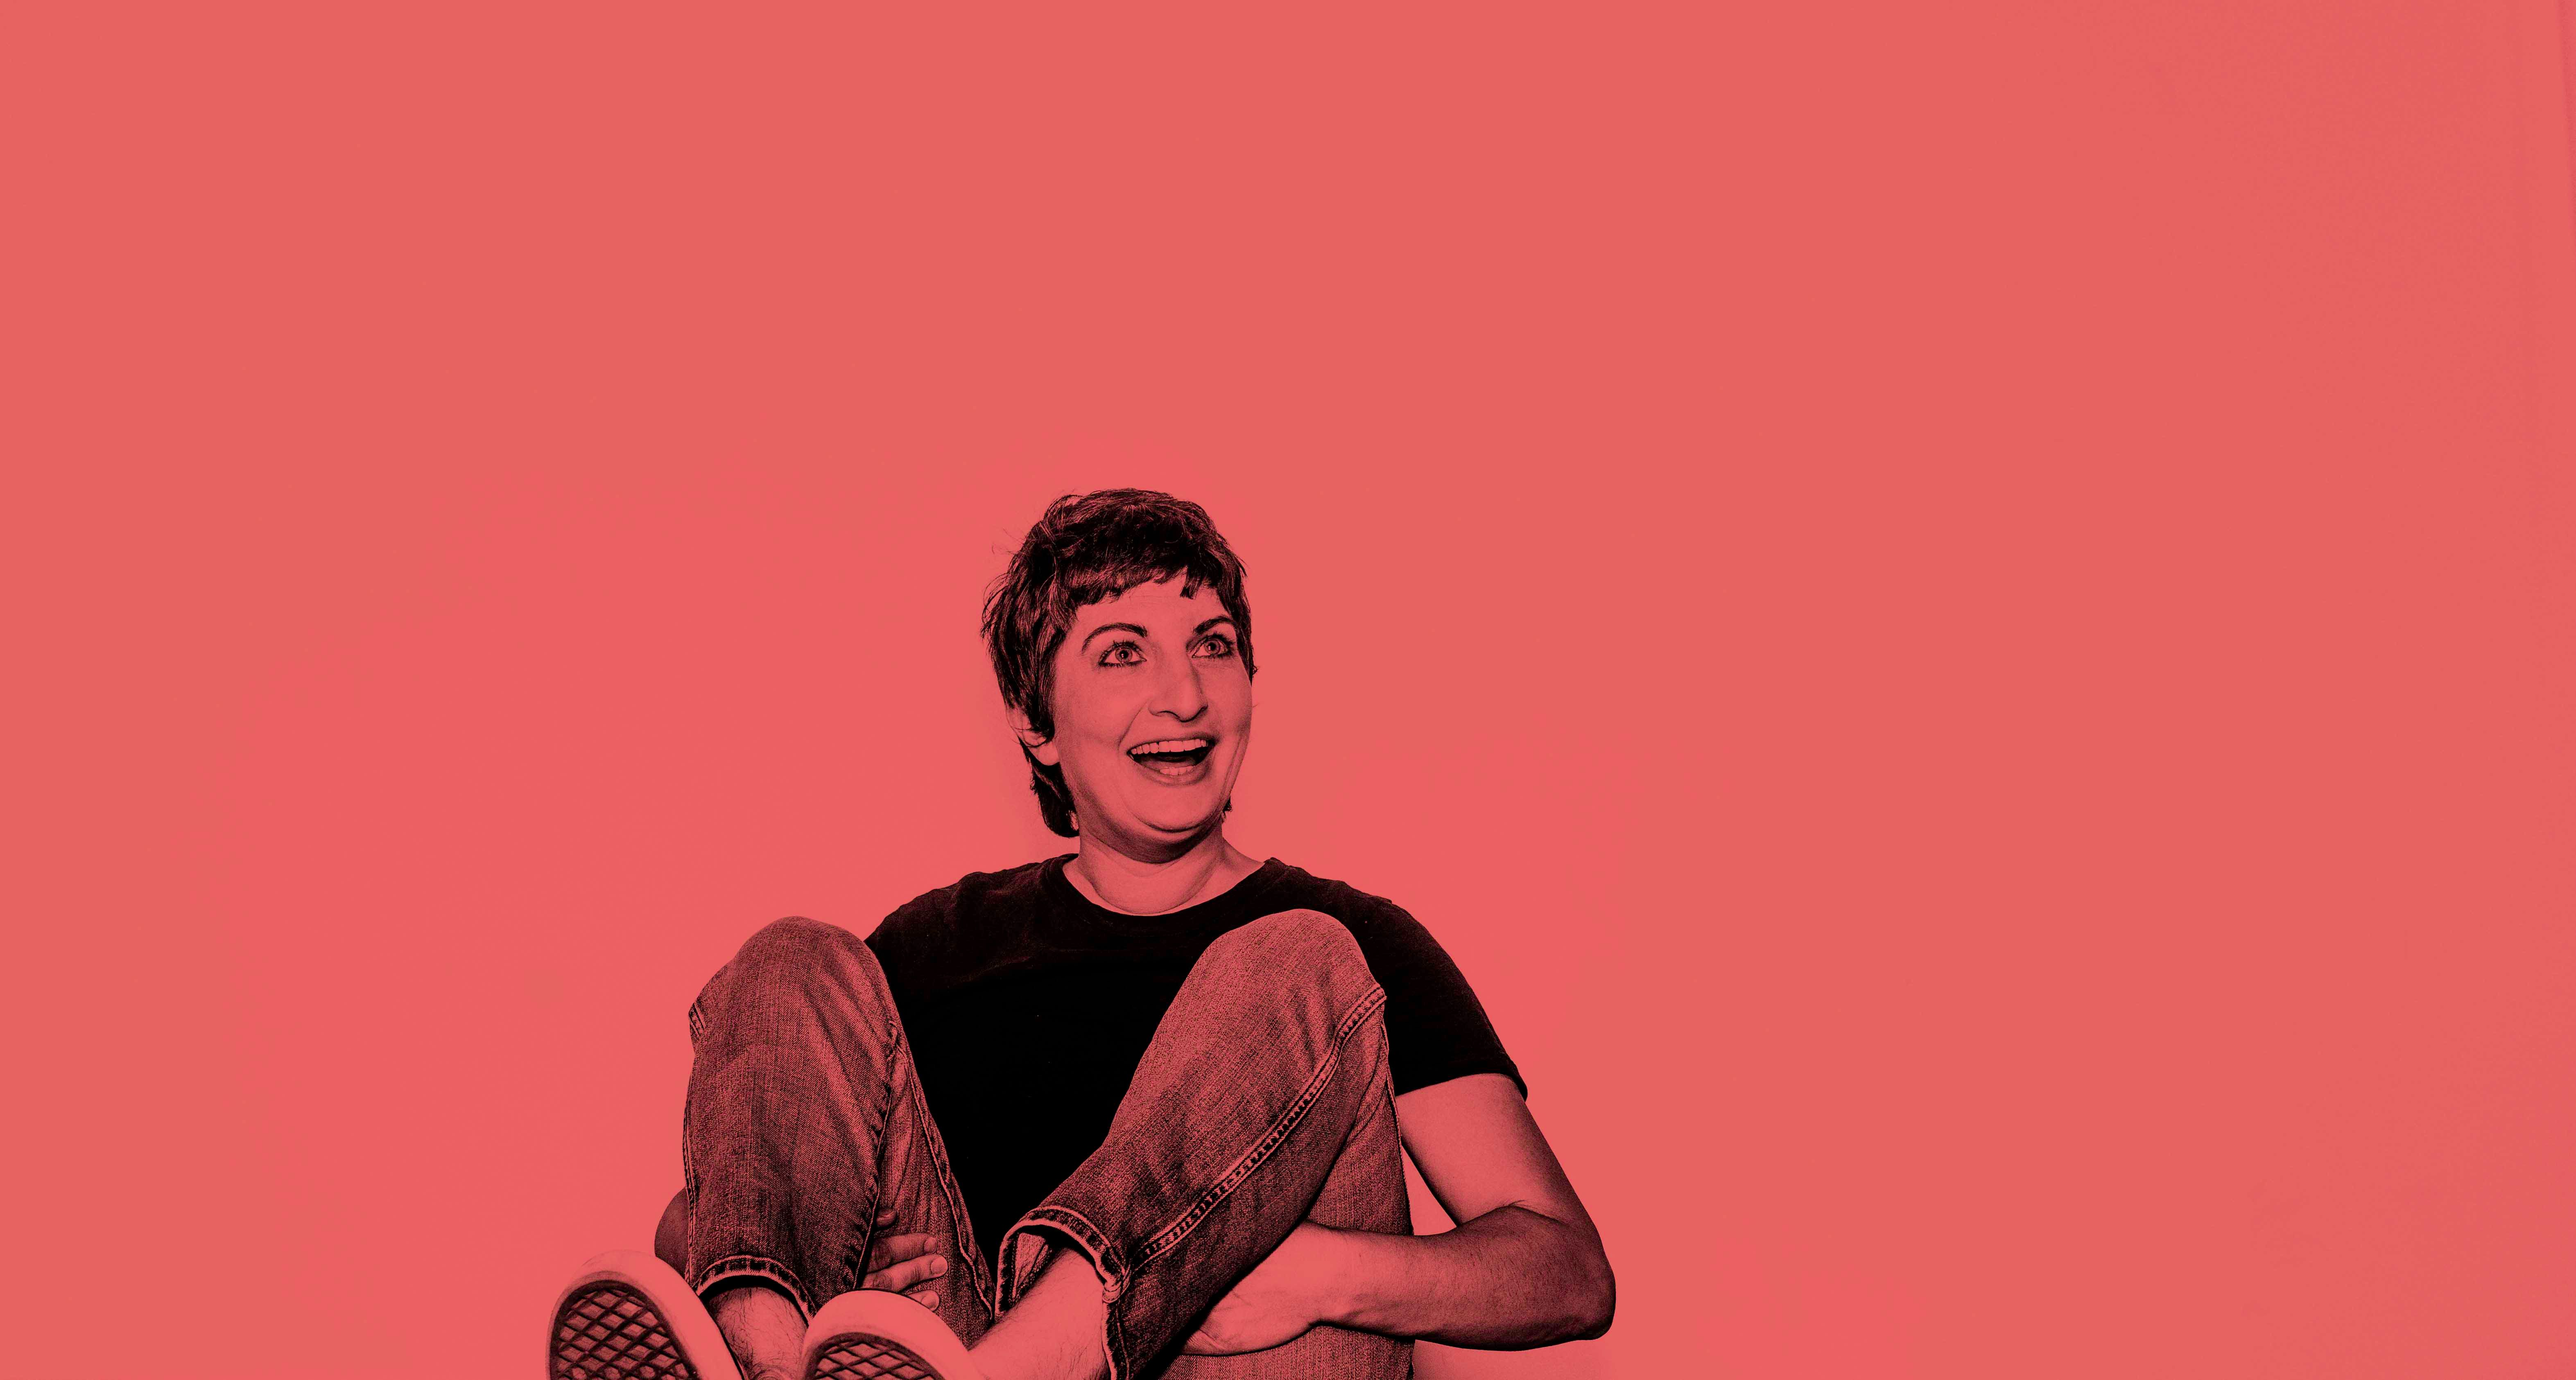
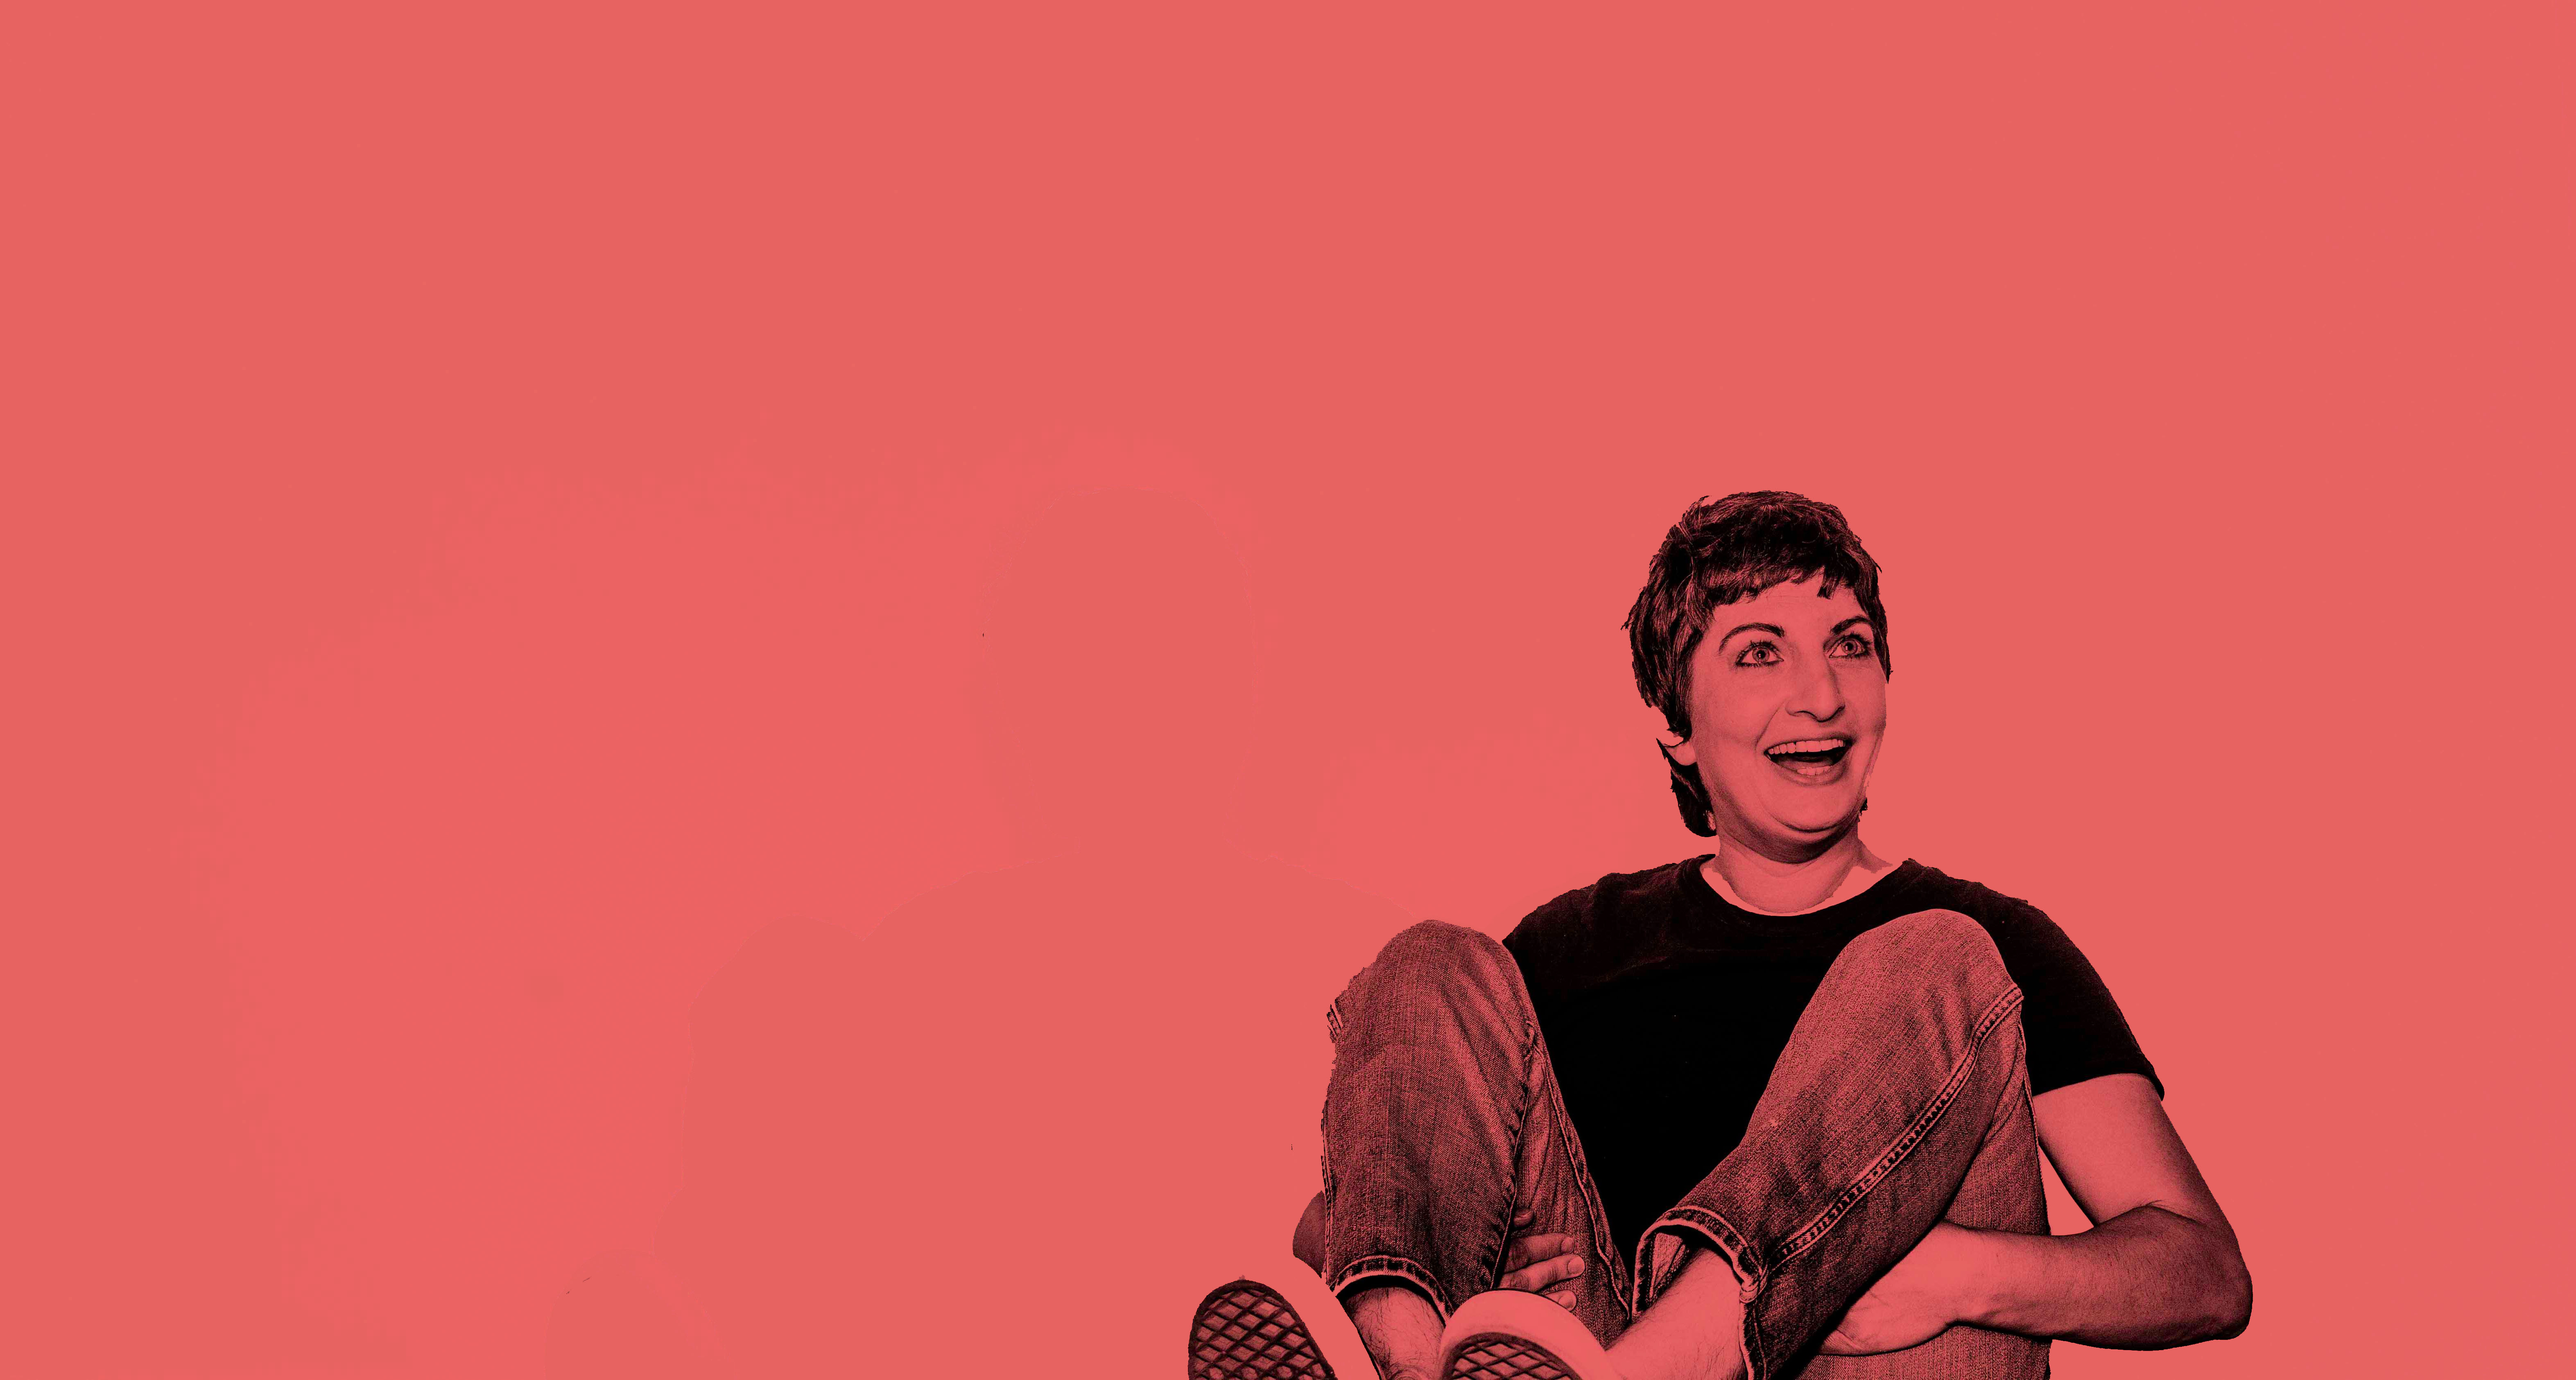
Add files via upload

Changed region(s): [[0.1869, 0.3426, 0.8724, 1.0]]

diff --git a/style.css b/style.css
@@ -18,7 +18,7 @@ p {
 /* Home page overlay */
 .heroOverlay {
     /* background:#da2c43; */
-    background-image: url(./bgphotoblue.jpg) ;
+    background-image: url(./redphotobg.jpg) ;
     background-size: cover;
     background-position: bottom right ; 
     background-repeat: no-repeat ;
@@ -33,7 +33,7 @@ p {
     width: 90%;
     max-width: 1200px;
     margin: auto;
-    margin-top: 60px;
+    margin-top: 60px; 
     padding: 80px 0px; 
     text-align: center;
 }
@@ -59,9 +59,8 @@ p {
 .heroButton {
     padding: 10px 48px;
     border-radius: 100px;
-    background: rgba(47, 74, 227, 0.988);
-    color: rgb(230, 230, 230) ;
-    color: inherit ;
+    background: yellow ; 
+    color: rgba(227, 71, 47, 0.988) ;
     border: 1px solid white ; 
     font-size: 18px;
     font-weight: 600;
@@ -74,9 +73,9 @@ p {
 }
 
 .heroButton:hover {
-    background: none;
+    background: rgba(227, 71, 47, 0.988) ;
     border: 1px solid rgb(230, 230, 230);
-    color:rgba(227, 71, 47, 0.988)
+    color:yellow ; 
    }
    
 .heroSection .socialIcons {
@@ -131,9 +130,10 @@ p {
 
 /* Footer styles applies to all pages */
 footer {
-    padding: 30px 20px;
-    background-color: rgba(234, 35, 35, 1.0) ;
-    color: white ; 
+    padding: 10px ;
+    margin: auto; 
+    background-color: orange ; 
+    
 
 }
 
@@ -158,7 +158,7 @@ footer {
 /* Small Laptop / Tablet Screens */
 @media screen and (max-width: 1024px) {
     .heroOverlay {
-        background-image: url(./bgphotoblue.jpg);
+        background-image: url(./redphotobg.jpg);
         background-size: cover;
         background-position: center;
     }
@@ -175,7 +175,7 @@ footer {
 /* Tablet Screens */
 @media screen and (max-width: 768px) {
     .heroOverlay {
-        background-image: url(./bgphotoblue.jpg);
+        background-image: url(./redphotobg.jpg);
         background-size: cover;
         background-position: center;
     
@@ -192,7 +192,7 @@ footer {
 /* Mobile Screens */
 @media screen and (max-width: 500px) {
     .heroOverlay {
-        background-image: url(./bgphotoblue.jpg);
+        background-image: url(./redphotobg.jpg);
         background-size: cover;
         background-position: 70% 20%;
         padding: 10px;

diff --git a/bio.html b/bio.html
@@ -37,7 +37,7 @@
 
 
         <section class="bioDetails"> 
-            <p>Claudia Cogan is a comic as affable as she is matter-of-fact. And her approach is working: she recently hopped a ride on Night Train with Wyatt Cenac on STARZ, made it to semi-finalist on Season 7 of Last Comic Standing and won the first ever Time Out New York Joke of the Year. She was featured in New York Magazine's Ten People Funny People Find Funny list. She has been seen at Bridgetown Comedy Festival, San Francisco SketchFest, the Eugene Mirman Comedy Festival and clubs all over. Her work has been featured on Lifetime TV, Rooftop Comedy and Youtube's Official Comedy Channel..</p>
+            <p style="font-size: 16px"> Claudia Cogan is a comic as affable as she is matter-of-fact. And her approach is working: she recently hopped a ride on Night Train with Wyatt Cenac on STARZ, made it to semi-finalist on Season 7 of Last Comic Standing and won the first ever Time Out New York Joke of the Year. She was featured in New York Magazine's Ten People Funny People Find Funny list. She has been seen at Bridgetown Comedy Festival, San Francisco SketchFest, the Eugene Mirman Comedy Festival and clubs all over. Her work has been featured on Lifetime TV, Rooftop Comedy and Youtube's Official Comedy Channel..</p>
      
         </section>
 
@@ -65,7 +65,7 @@
         </section>
         
         <section class="socialIcons"> 
-            <p> &copy; 2023 Maha Ahmed. All rights reserved. </p>
+            <p> &copy; 2023 Claudia Cogan. All rights reserved. </p>
         </section>
 
     </footer>

diff --git a/nav.css b/nav.css
@@ -5,32 +5,35 @@
 }
 
 .navbar {
-    width: 90% ;
-    max-width: 1200px;
+    width: 100% ;
+    top: 0 ; 
+    left: 0 ; 
     max-height: 60px; 
     overflow: hidden;
     display: flex; 
     flex-direction: row;
     justify-content: space-between;
     align-items: center; 
-    padding: 10px 30px;
-    background-color: rgb(255, 255, 255) ;
-    box-shadow: 0px 0px 10px rgba(0, 0, 0, 0.7); 
-    border-radius: 20px ; 
-    margin: auto ;
-    margin-top: 10px ;
+    padding: 20px 30px;
+    box-shadow: 0px 0px 10px rgba(0, 0, 0, 0.7);  
+    margin: auto ; 
+    position: fixed; 
+    background-color:yellow; 
+    color: #da2c43; 
+
+
 }
 
 .navbarlogo {
     display: flex; 
     word-wrap: normal;
     font-size: 24px; 
-    font-weight: 700;
+    font-weight: 900;
     text-decoration: none;
     padding: 0px ;
     margin: 0px ;
     font-family: 'Rock Salt', cursive; 
-    color: rgba(234, 35, 35, 1.0)
+
 
 }
 
@@ -55,14 +58,14 @@
 
 .nav-menu li {
     font-weight: 200; 
-    font-size: 15px;
-    transition: 0.3s ease-in-out ;
+    font-size: 20px;
+    transition: 0.3s ease-in-out ; 
    
 }
 
 .nav-menu li:hover {
     text-decoration: none;
-    color: rgba(234, 35, 35, 1.0)
+    color: black; 
 }
 
 
@@ -132,7 +135,7 @@
 
     #nav-menu li {
         padding: 10px 0px ; 
-        
+
     
     }
 

diff --git a/bio.css b/bio.css
@@ -3,6 +3,7 @@
   margin: 0;
   box-sizing: border-box;
   font-family: 'Martel Sans', sans-serif;
+
   
 }
 
@@ -11,9 +12,9 @@
 .container {
   background-image: url(./bio-image2.jpg);
   background-size: cover ;
-  background-repeat: no-repeat;
-  background-position: right bottom; 
-  display: flex;
+  background-repeat: no-repeat ;
+  background-position: right bottom ; 
+  display: flex ; 
   margin-top: 13px ;
 
 }
@@ -23,18 +24,19 @@
     flex-direction: column ;
     align-items: right ;
     justify-content: right ;
-    margin: 130px auto ;
-    margin-right: 200px; 
-    padding: 5% 8%;
+    margin: 95px auto ;
+    margin-right: 130px; 
+    padding: 4% 4% ;
     width: 90% ;
     max-width: 500px ;
-    font-weight: 900 ;
-    box-shadow: 10px 10px 20px rgba(0, 0, 0, 0.1);
-    border-color: rgb(217, 235, 20) ;  
-    border-radius: 18% ; 
-  
+    font-weight: 700 ;
+    text-align: center;
 
-}
+  }
+
+  footer {
+    background-color: none ; 
+  }
 
 @media screen and (max-width: 768px) {
     .container {

diff --git a/app.js b/app.js
@@ -18,5 +18,3 @@ closeNavBarToggle.addEventListener('click', () => {
 
 
 
-
-
